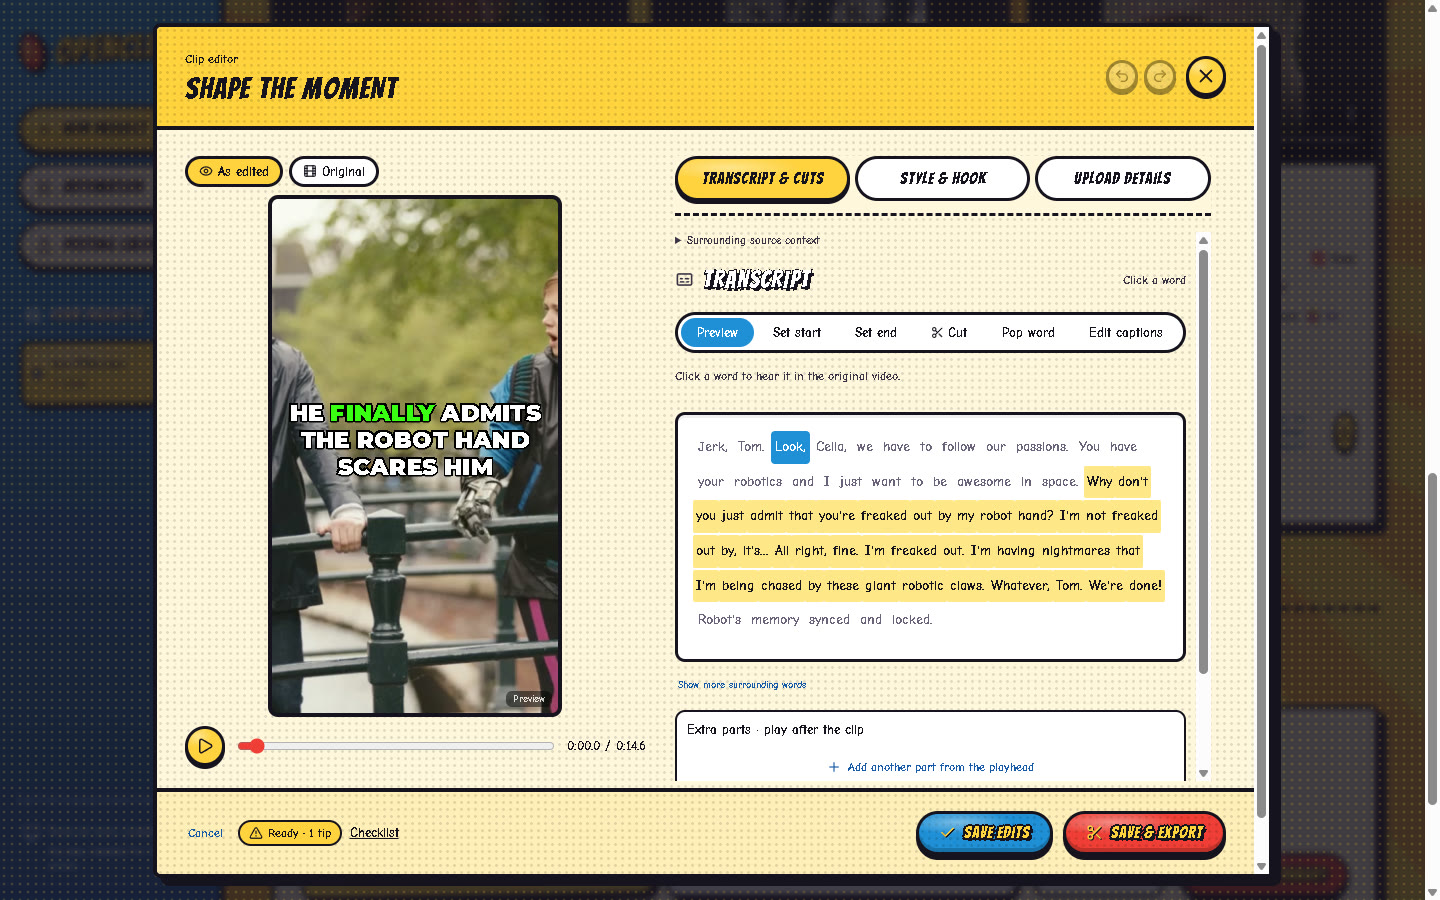
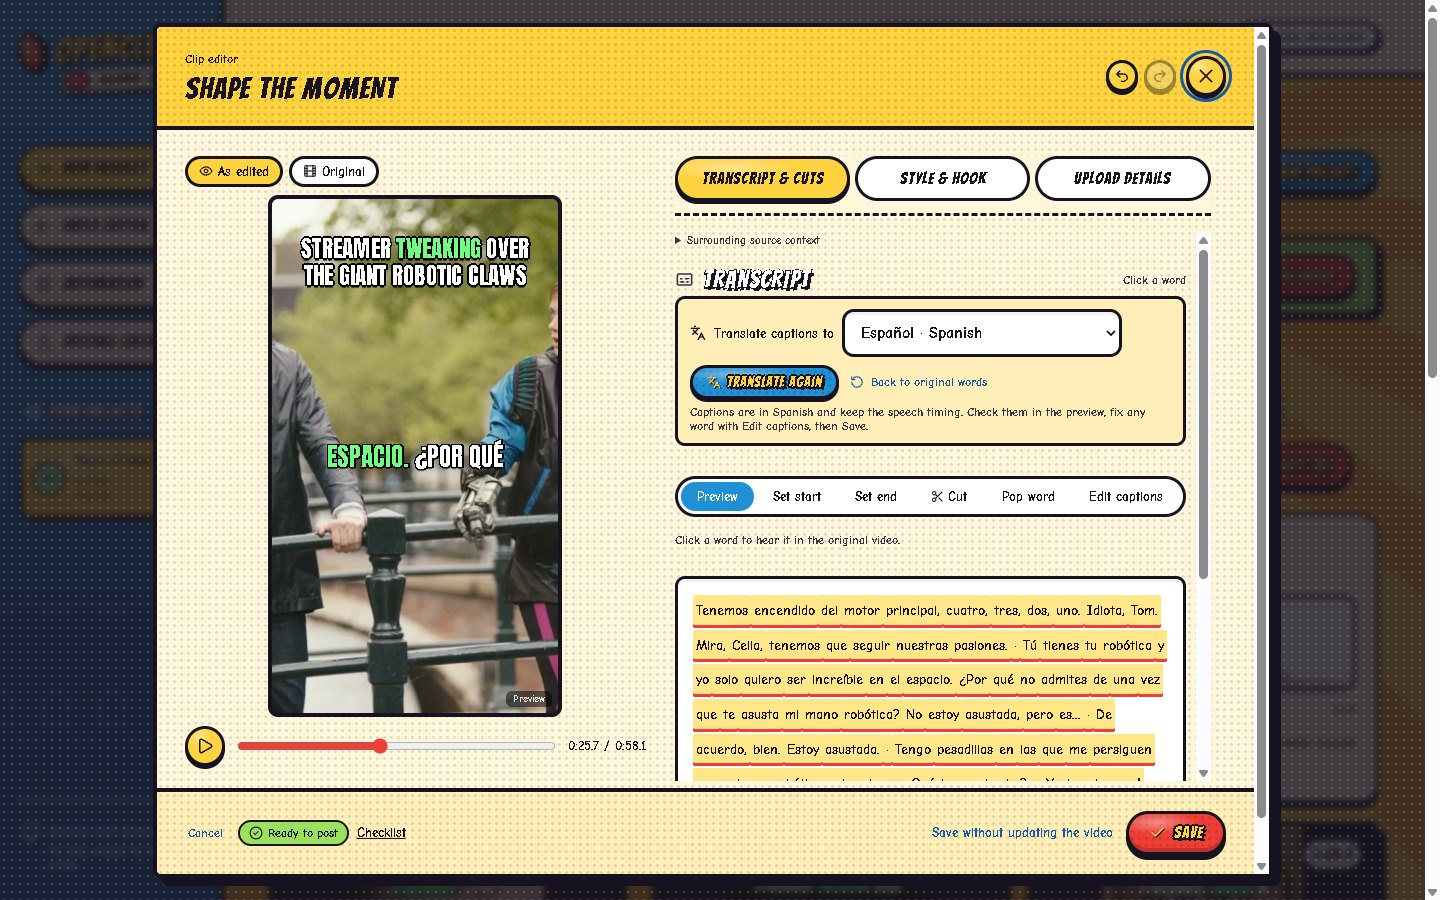
README: new screenshots and InstaPay + Ko-fi tip cards; caption translation falls back when a language pack stalls
- Retaken from a Tears of Steel demo project: start screen (creators list, language menu), project with Clip again and
  a clip updating on its own, clip editor with captions translated to Spanish, Posting calendar with thumbnails, and
  the Post dialog preview
- Tip section: InstaPay (Philippines) and Ko-fi (worldwide) cards, both codes verified; Ko-fi link added
- Caption translation: if the browser's language pack download makes no progress for 20 s, use the AI key instead
  of waiting forever; a clear message when neither works
- Local uploads list under their file name without the extension

diff --git a/web/src/CaptionTranslate.tsx b/web/src/CaptionTranslate.tsx
@@ -12,16 +12,24 @@ const CHOICES=['en',...LANGUAGES];
 const base=(code:string)=>code.split('-')[0].toLowerCase();
 
 async function translateLines(jobId:string,from:string,to:string,lines:string[],onProgress:(text:string)=>void):Promise<string[]>{
- const api=browserApi();
+ const api=browserApi();let stuck=false;
  if(api&&from){const ready=await api.availability({sourceLanguage:from,targetLanguage:to}).catch(()=>'unavailable');
   if(ready!=='unavailable'){
    if(ready!=='available')onProgress('Downloading the language pack once (it stays on this computer)…');
-   const t=await api.create({sourceLanguage:from,targetLanguage:to,monitor:m=>m.addEventListener('downloadprogress',e=>onProgress(`Downloading the language pack · ${Math.round(((e as ProgressEvent).loaded||0)*100)}%`))});
-   try{const out:string[]=[];for(let i=0;i<lines.length;i++){onProgress(`Translating line ${i+1} of ${lines.length}…`);out.push(await t.translate(lines[i]));}return out;}finally{t.destroy?.();}
+   // A language pack download can stall (offline, blocked, or Chrome busy): after 20 s without progress, use the AI key.
+   let moved=Date.now();
+   const making=api.create({sourceLanguage:from,targetLanguage:to,monitor:m=>m.addEventListener('downloadprogress',e=>{moved=Date.now();onProgress(`Downloading the language pack · ${Math.round(((e as ProgressEvent).loaded||0)*100)}%`);})});
+   let timer=0;const stalled=new Promise<null>(resolve=>{timer=window.setInterval(()=>{if(Date.now()-moved>20000)resolve(null);},1000);});
+   const t=await Promise.race([making.catch(()=>null),stalled]).finally(()=>clearInterval(timer));
+   if(t){try{const out:string[]=[];for(let i=0;i<lines.length;i++){onProgress(`Translating line ${i+1} of ${lines.length}…`);out.push(await t.translate(lines[i]));}return out;}finally{t.destroy?.();}}
+   making.then(late=>late.destroy?.()).catch(()=>{});
+   onProgress('The browser’s language pack isn’t downloading. Trying your AI key instead…');stuck=true;
   }}
  onProgress('Translating with your AI key…');
  const r=await fetch(`/api/jobs/${jobId}/captions/translate`,{method:'POST',headers:{'Content-Type':'application/json'},body:JSON.stringify({from,to,lines})});
- const d=await r.json().catch(()=>({}));if(!r.ok)throw new Error(d.error||'Translation failed');return d.lines;
+ const d=await r.json().catch(()=>({}));
+ if(!r.ok)throw new Error(stuck&&r.status===409?'This browser’s language pack didn’t download. Check your internet and press Translate again, or add a free AI key (for example GEMINI_API_KEY) to .env and restart.':d.error||'Translation failed');
+ return d.lines;
 }
 
 export default function CaptionTranslate({jobId,words,edits,setEdits,ranges,spoken}:{jobId:string;words:Word[];edits:Record<string,string>;setEdits:(e:Record<string,string>)=>void;ranges:Range[];spoken:string}){

diff --git a/web/src/CreatorPhoto.tsx b/web/src/CreatorPhoto.tsx
@@ -5,7 +5,8 @@ import type {Job} from './types';
 // user picked, or the creator's initials on a colour of their own.
 const initials=(name:string)=>{const parts=name.replace(/[^\p{L}\p{N}\s]/gu,' ').trim().split(/\s+/).filter(Boolean);return ((parts[0]?.[0]||'?')+(parts.length>1?parts.at(-1)![0]:parts[0]?.[1]||'')).toUpperCase();};
 const hue=(s:string)=>[...s].reduce((h,c)=>(h*31+c.charCodeAt(0))%360,7);
-export const creatorName=(j:Job)=>j.creator?.name||j.source?.name||j.title||'New project';
+// Local uploads have no channel: their file name, without the extension.
+export const creatorName=(j:Job)=>j.creator?.name||(j.source?.name||j.title||'').replace(/\.(mp4|mov|mkv|webm|m4v)$/i,'')||'New project';
 
 export function CreatorAvatar({job,version,status}:{job:Job;version:number;status:''|'processing'|'failed'}){
  const name=creatorName(job),key=`${job.creator?.name||''}|${version}`;const [shown,setShown]=useState<string|null>(null);

diff --git a/README.md b/README.md
@@ -6,9 +6,12 @@ Paste a public YouTube, Twitch or Kick link (a past broadcast, a clip, or a YouT
 
 ## Spare me some change ☕
 
-OpenClip is free and made by one person, **Jaspher Tampos**. If it saves you time, a small tip keeps it going. Scan with any InstaPay bank or e-wallet (GCash, Maya, BPI, BDO and more).
+OpenClip is free and made by one person, **Jaspher Tampos**. If it saves you time, a small tip keeps it going.
 
-<img src="docs/media/tip-qr.png" alt="InstaPay QR code for Open Clip (BPI)" width="220">
+- **In the Philippines:** scan the InstaPay code with any bank or e-wallet (GCash, Maya, BPI, BDO and more).
+- **From anywhere else:** tip by card or PayPal on Ko-fi: **[ko-fi.com/jasphertampos](https://ko-fi.com/jasphertampos)**, or scan the Ko-fi code.
+
+<img src="docs/media/tip-cards.png" alt="Two QR codes: InstaPay for the Philippines, and Ko-fi (ko-fi.com/jasphertampos) for tips from anywhere" width="560">
 
 ## See it in action
 
@@ -23,14 +26,15 @@ All three clips were made by OpenClip from one 12-minute film, *Tears of Steel* 
 
 | | |
 | :---: | :---: |
-| ![New project: paste a link or drop a file, pick an edit style](docs/media/new-project.jpg) | ![Finished project: edited clips ready to post](docs/media/project-clips.jpg) |
-| **New project:** your video, an edit style, how many moments | **Your clips:** edited and ready, with the whole-stream timeline above |
-| ![Clip editor: live preview and word-level transcript](docs/media/clip-editor.jpg) | ![Templates: choose a different edit for any clip](docs/media/templates.jpg) |
-| **Clip editor:** trim and cut on words, fix captions | **Style & hook:** switch templates, fonts, colours and motion |
+| ![Start screen: paste a link or drop a file; your projects listed by creator, with a language menu at the top](docs/media/new-project.jpg) | ![Finished project: Clip again for more clips, and one clip updating on its own while the others stay playable](docs/media/project-clips.jpg) |
+| **New project:** paste a link or drop a file. Your projects are listed by creator, with their photo, and the whole app can switch language from the top bar | **Your clips:** edited and ready. **Clip again** adds more without repeating one, and an edited clip re-renders on its own while you keep working |
+| ![Clip editor: captions translated to Spanish, synced to the speech](docs/media/clip-editor.jpg) | ![Templates: choose a different edit for any clip](docs/media/templates.jpg) |
+| **Clip editor:** trim and cut on words, fix captions, or **translate them** into another language, still synced to the speech | **Style & hook:** switch templates, fonts, colours and motion |
 
-![Posting calendar: drafts, scheduling and private uploads](docs/media/posting-calendar.jpg)
-
-**Posting calendar:** edit titles and descriptions, schedule, and upload privately to YouTube.
+| | |
+| :---: | :---: |
+| ![Posting calendar: each post with its thumbnail, drafts and scheduled days](docs/media/posting-calendar.jpg) | ![Post dialog: a preview of the finished video before you upload](docs/media/post-preview.jpg) |
+| **Posting calendar:** every post shows its thumbnail; edit titles and descriptions, schedule, and upload privately to YouTube | **Ready to post?** see the finished video before it goes up |
 
 ### New: Video cutter, auto captions, TikTok and portrait or landscape
 
